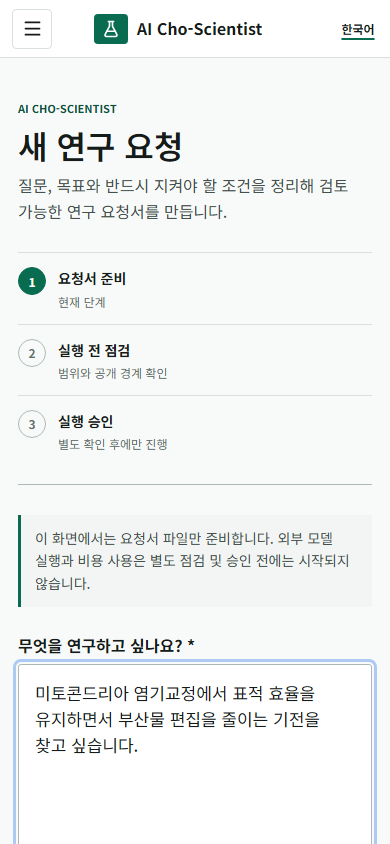
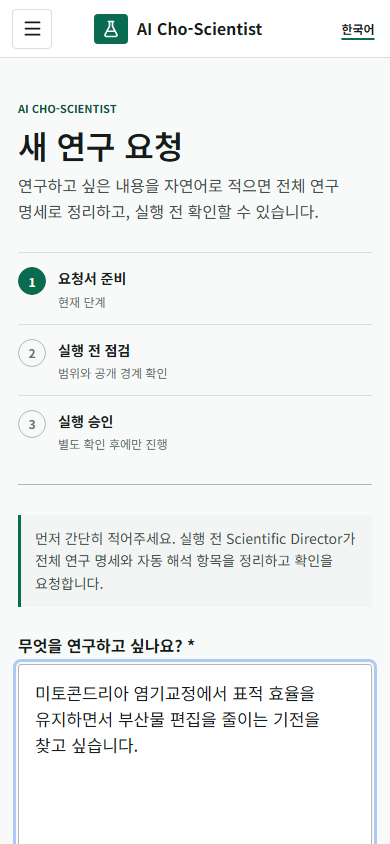
fix: align direct run portal with production contracts

Changed region(s): [[0.0923, 0.6161, 0.9231, 0.7085], [0.0308, 0.2156, 0.8923, 0.2773]]

diff --git a/src/components/new-run-builder.tsx b/src/components/new-run-builder.tsx
@@ -13,6 +13,7 @@ import {
   type RunRequestDraft,
 } from "@/lib/run-request";
 import {
+  buildControlledRunPayload,
   createControlledRun,
   getRunControlSession,
   runControlApiBase,
@@ -189,26 +190,13 @@ export function NewRunBuilder() {
         ].filter(Boolean).join("\n"),
       );
       const run = await createControlledRun(
-        {
-          research_question: researchQuestion,
+        buildControlledRunPayload({
+          researchQuestion,
           objectives,
           constraints,
-          requested_mode: value.creativity_profile === "BREAKTHROUGH_DISCOVERY"
-            ? "DISCOVERY_PORTFOLIO_RUN"
-            : value.run_type || "AUTO",
-          include_literature_list_and_review_scope: true,
-          execution_mode: "PROVIDER_BACKED",
-          budget_profile: value.creativity_profile === "BREAKTHROUGH_DISCOVERY"
-            ? "breakthrough_discovery"
-            : "standard",
-          ...(value.creativity_profile === "BREAKTHROUGH_DISCOVERY"
-            ? {
-                creativity_profile: "BREAKTHROUGH_DISCOVERY",
-                creativity_profile_selection_reviewed: true,
-                raw_spark_target: 60,
-              }
-            : {}),
-        },
+          requestedMode: value.run_type || "AUTO",
+          creativityProfile: value.creativity_profile,
+        }),
         session.csrf_token,
       );
       window.location.assign(withBasePath(`/run-control/?run_id=${encodeURIComponent(run.run_id)}`));
@@ -429,8 +417,8 @@ export function NewRunBuilder() {
           </div>
           <small className="preview-footnote">
             {ko
-              ? "브라우저에는 API 키나 GitHub 토큰이 저장되지 않습니다."
-              : "No API key or GitHub token is stored in the browser."}
+              ? "브라우저에는 비밀 키나 인증 토큰이 저장되지 않습니다."
+              : "No secret key or authentication token is stored in the browser."}
           </small>
         </aside>
       )}

diff --git a/src/app/globals.css b/src/app/globals.css
@@ -283,11 +283,17 @@ p, li, dd, td, th, a, button, label { word-break: keep-all; overflow-wrap: break
 .budget-strip > div { padding: 14px 16px; border-right: 1px solid var(--line); }
 .budget-strip > div:last-child { border-right: 0; }
 .budget-strip strong { display: block; margin-top: 3px; font-size: 18px; }
-.budget-comparison { display: grid; grid-template-columns: repeat(5,minmax(0,1fr)); border-block: 1px solid var(--line-strong); }
+.budget-comparison { display: grid; grid-template-columns: repeat(auto-fit,minmax(130px,1fr)); border-block: 1px solid var(--line-strong); }
 .budget-comparison > div { min-width: 0; padding: 14px 16px; border-right: 1px solid var(--line); }
 .budget-comparison > div:last-child { border-right: 0; }
 .budget-comparison span, .budget-comparison small { display: block; color: var(--ink-faint); font-size: 11px; }
 .budget-comparison strong { display: block; margin: 4px 0 2px; font-size: 18px; }
+.breakthrough-stage-flow { border-top: 1px solid var(--line); padding-top: 18px; }
+.breakthrough-stage-flow h3 { margin: 0 0 12px; font-size: 15px; }
+.breakthrough-stage-flow ol { display: grid; grid-template-columns: repeat(auto-fit,minmax(170px,1fr)); gap: 0; margin: 0; padding: 0; list-style: none; counter-reset: breakthrough-stage; }
+.breakthrough-stage-flow li { min-width: 0; border-top: 1px solid var(--line); padding: 10px 12px 10px 30px; color: var(--ink-soft); font-size: 12px; overflow-wrap: anywhere; counter-increment: breakthrough-stage; }
+.breakthrough-stage-flow li::before { content: counter(breakthrough-stage); display: inline-block; width: 20px; margin-left: -22px; color: var(--ink-faint); font-weight: 700; }
+.breakthrough-stage-flow li.freeze-stage { border-top-color: var(--accent); background: var(--surface-muted); color: var(--accent-dark); font-weight: 700; }
 .stop-rules h3 { margin: 0 0 8px; font-size: 15px; }
 .stop-rules ul { margin: 0; padding-left: 20px; color: var(--ink-soft); }
 .event-timeline { display: grid; gap: 0; }

diff --git a/src/lib/run-control-api.ts b/src/lib/run-control-api.ts
@@ -82,6 +82,16 @@ export interface CompiledRunContract {
     reason: string;
   }>;
   requires_user_confirmation: boolean;
+  creativity_profile?: "BREAKTHROUGH_DISCOVERY";
+  raw_spark_target?: number;
+  stage_order?: string[];
+  budget_sufficiency?: {
+    sufficient: boolean;
+    required_profile: string;
+    reduced_target_requires_explicit_approval: boolean;
+    silent_truncation_allowed: false;
+    provider_price_source: string;
+  };
 }
 
 export interface RunControlRecord {
@@ -150,6 +160,34 @@ export class RunControlApiError extends Error {
   }
 }
 
+export interface ControlledRunPayloadInput {
+  researchQuestion: string;
+  objectives: string[];
+  constraints: string[];
+  requestedMode: string;
+  creativityProfile: "STANDARD" | "BREAKTHROUGH_DISCOVERY";
+}
+
+export function buildControlledRunPayload(input: ControlledRunPayloadInput) {
+  const breakthrough = input.creativityProfile === "BREAKTHROUGH_DISCOVERY";
+  return {
+    research_question: input.researchQuestion,
+    objectives: input.objectives,
+    constraints: input.constraints,
+    requested_mode: breakthrough ? "DISCOVERY_PORTFOLIO_RUN" : input.requestedMode,
+    include_literature_list_and_review_scope: true,
+    execution_mode: "PROVIDER_BACKED",
+    budget_profile: breakthrough ? "breakthrough_discovery" : "standard",
+    ...(breakthrough
+      ? {
+          creativity_profile: "BREAKTHROUGH_DISCOVERY",
+          creativity_profile_selection_reviewed: true,
+          raw_spark_target: 60,
+        }
+      : {}),
+  };
+}
+
 async function request<T>(
   pathname: string,
   init: RequestInit = {},
@@ -174,7 +212,11 @@ async function request<T>(
     }
     throw new RunControlApiError(detail, response.status);
   }
-  return response.json() as Promise<T>;
+  try {
+    return await response.json() as T;
+  } catch {
+    throw new RunControlApiError("Run Control API returned an invalid response.", 502);
+  }
 }
 
 export function getRunControlSession() {

diff --git a/src/components/run-control-panel.tsx b/src/components/run-control-panel.tsx
@@ -231,6 +231,12 @@ export function RunControlPanel() {
           )}
 
           <dl className="contract-grid">
+            {contract.creativity_profile && (
+              <div><dt>{ko ? "아이디어 탐색" : "Creativity profile"}</dt><dd>{contract.creativity_profile}</dd></div>
+            )}
+            {contract.raw_spark_target && (
+              <div><dt>{ko ? "원시 아이디어 목표" : "Raw spark target"}</dt><dd>{contract.raw_spark_target}</dd></div>
+            )}
             <div><dt>{ko ? "문헌 범위 포함" : "Literature scope"}</dt><dd>{formatValue(contract.include_literature_list_and_review_scope, ko)}</dd></div>
             <div><dt>{ko ? "초기 아이디어" : "Raw ideas"}</dt><dd>{contract.generation_plan.raw_idea_minimum} min / {contract.generation_plan.raw_idea_target} target</dd></div>
             <div><dt>{ko ? "기전 계열" : "Mechanism families"}</dt><dd>{contract.generation_plan.mechanism_family_target_range.join("–")}</dd></div>
@@ -242,6 +248,22 @@ export function RunControlPanel() {
             <div><dt>Runtime ref</dt><dd>{contract.runtime_ref}</dd></div>
             <div><dt>{ko ? "출력 루트 정책" : "Output root policy"}</dt><dd>{contract.output_root_policy}</dd></div>
           </dl>
+
+          {contract.stage_order && (
+            <div className="breakthrough-stage-flow">
+              <h3>{ko ? "돌파형 탐색 단계" : "Breakthrough stage order"}</h3>
+              <ol>
+                {contract.stage_order.map((stage) => (
+                  <li
+                    key={stage}
+                    className={stage === "presearch_idea_freeze" ? "freeze-stage" : ""}
+                  >
+                    {stage.replaceAll("_", " ")}
+                  </li>
+                ))}
+              </ol>
+            </div>
+          )}
 
           {budget && (
             <div className="budget-comparison" aria-label={ko ? "예상치와 상한" : "Expected use and hard caps"}>

diff --git a/src/lib/run-control-api.test.ts b/src/lib/run-control-api.test.ts
@@ -67,4 +67,33 @@ describe("run control browser client", () => {
       /authorization|api[_-]?key|github[_-]?token/i,
     );
   });
+
+  it("omits creativity metadata for Standard and binds it for Breakthrough", async () => {
+    const { buildControlledRunPayload } = await import("./run-control-api");
+    const common = {
+      researchQuestion: "Why does product purity vary?",
+      objectives: ["Preserve activity"],
+      constraints: ["No exact sequence design"],
+      requestedMode: "AUTO",
+    };
+    const standard = buildControlledRunPayload({
+      ...common,
+      creativityProfile: "STANDARD",
+    });
+    expect(standard).not.toHaveProperty("creativity_profile");
+    expect(standard.budget_profile).toBe("standard");
+    expect(standard.requested_mode).toBe("AUTO");
+
+    const breakthrough = buildControlledRunPayload({
+      ...common,
+      creativityProfile: "BREAKTHROUGH_DISCOVERY",
+    });
+    expect(breakthrough).toMatchObject({
+      creativity_profile: "BREAKTHROUGH_DISCOVERY",
+      creativity_profile_selection_reviewed: true,
+      raw_spark_target: 60,
+      budget_profile: "breakthrough_discovery",
+      requested_mode: "DISCOVERY_PORTFOLIO_RUN",
+    });
+  });
 });

diff --git a/DIRECT_RUN_CONTROL_INTEGRATION.md b/DIRECT_RUN_CONTROL_INTEGRATION.md
@@ -3,7 +3,7 @@
 This branch reconstructs the public-safe browser side of authenticated
 Scientific Core execution on top of the sanitized Portal main branch. It does
 not contain private development ancestry and does not contain or accept an
-OpenAI key, GitHub token, shell command, runtime ref, executable path, output
+provider key, Access assertion, GitHub App credential, shell command, runtime ref, executable path, output
 path, or arbitrary environment.
 
 ## Build Configuration
@@ -11,11 +11,11 @@ path, or arbitrary environment.
 Set one non-secret environment variable:
 
 ```text
-NEXT_PUBLIC_RUN_CONTROL_API_BASE=https://<approved-control-host>
+NEXT_PUBLIC_RUN_CONTROL_API_BASE=https://api.aichoscientist.com
 ```
 
-The backend must allow the exact Portal origin and provide GitHub OAuth,
-server-side sessions, CSRF, private request storage, V2 replay-protected status
+The backend must allow the exact Portal origin and use Cloudflare Access JWT
+identity with an explicit email allowlist. It provides CSRF, private request storage, V2 replay-protected status
 events, approval, cancellation, re-dispatch, and owner-authorized private
 artifact endpoints.
 
@@ -34,11 +34,12 @@ artifact endpoints.
 
 The frontend is deployable with the single public backend base URL above.
 Production acceptance still requires an independently deployed HTTPS backend,
-GitHub OAuth/App credentials entered directly in the hosting platform, an
-approved-user allowlist, same-site or reviewed cross-site session behavior,
+Cloudflare Access configuration and GitHub App machine credentials entered
+directly in the hosting platform, an approved-user allowlist, reviewed
+cross-site credential behavior,
 persistent database storage, and private encrypted object storage. None of
 those secrets belongs in this repository or in a browser bundle.
 
-This branch is based on sanitized merge commit
-`e1a367365e0c80db41c613167e1c5735f87e42bb`. The superseded draft PR must be
-closed rather than merged.
+This integration is reconstructed from production `main`; the historical
+direct-run and Breakthrough UI PRs are superseded only after this replacement
+passes release verification.
